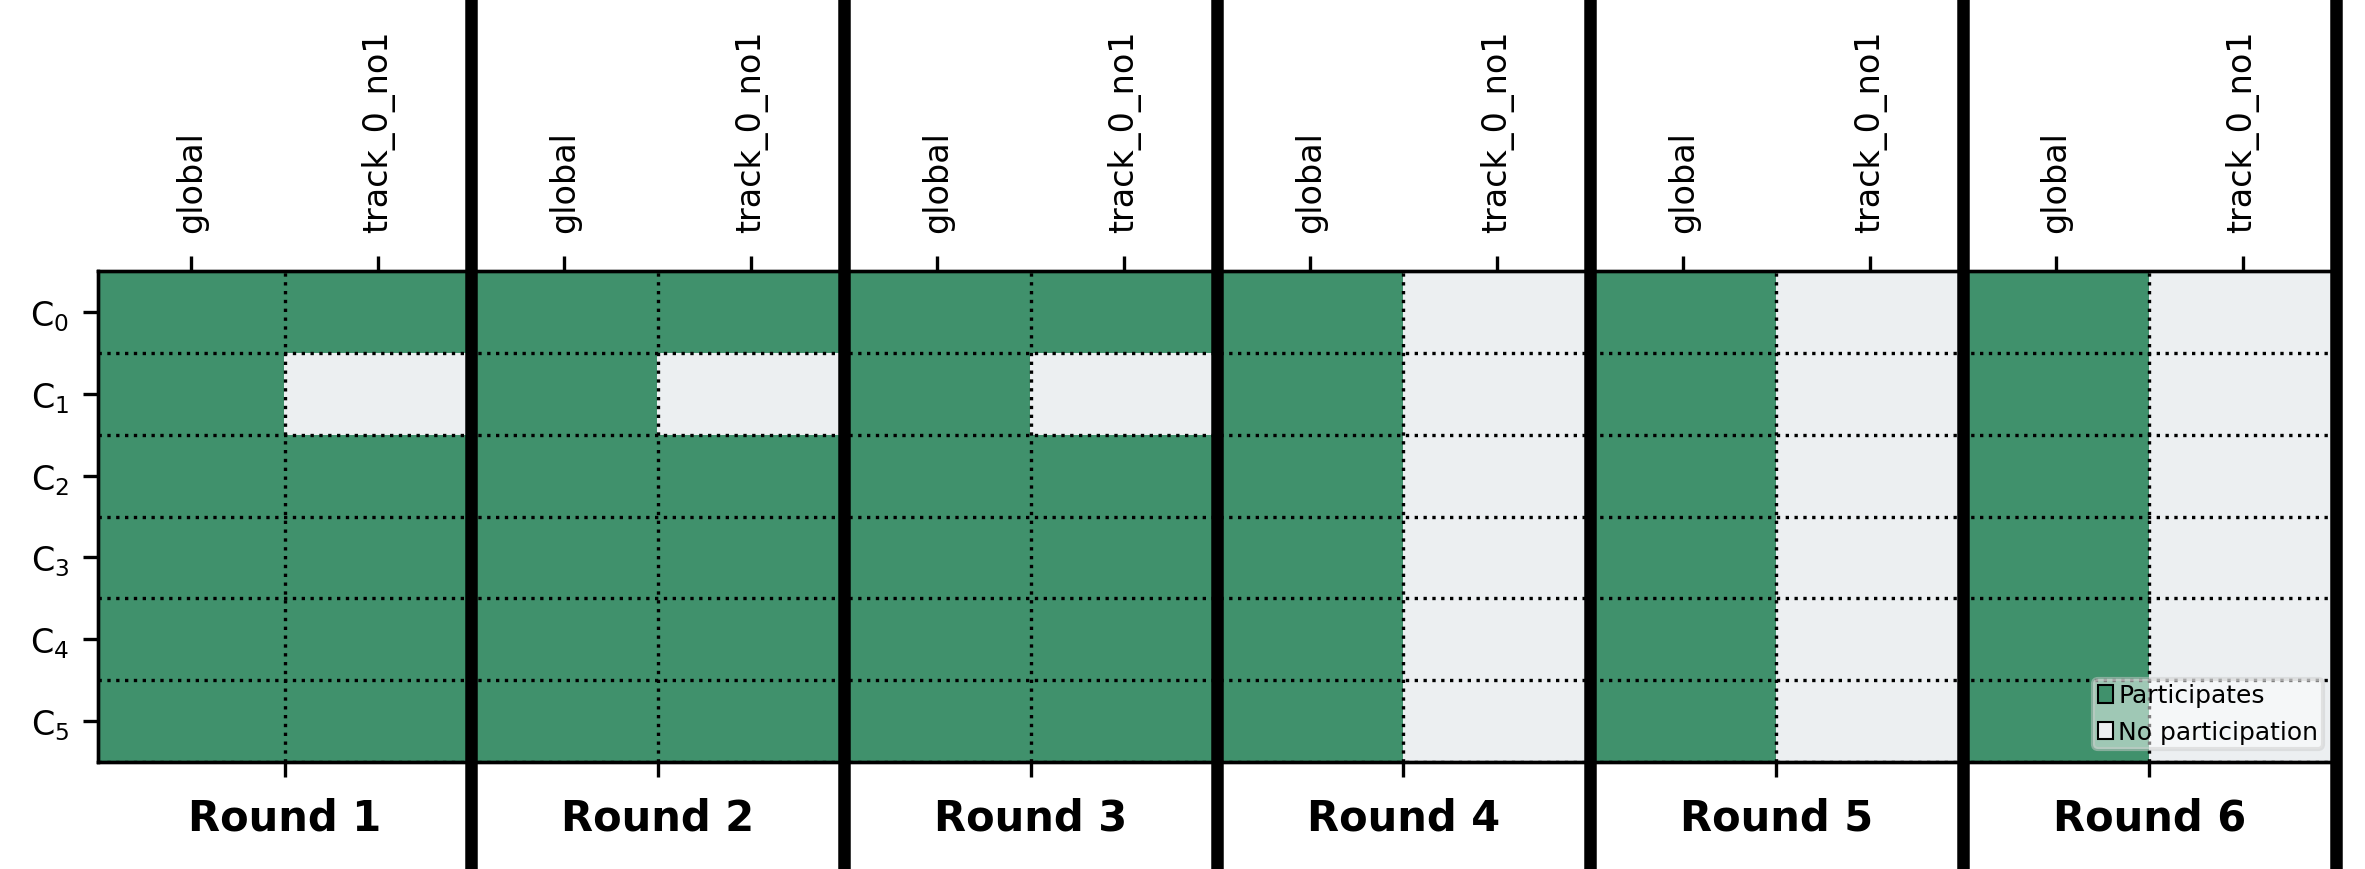
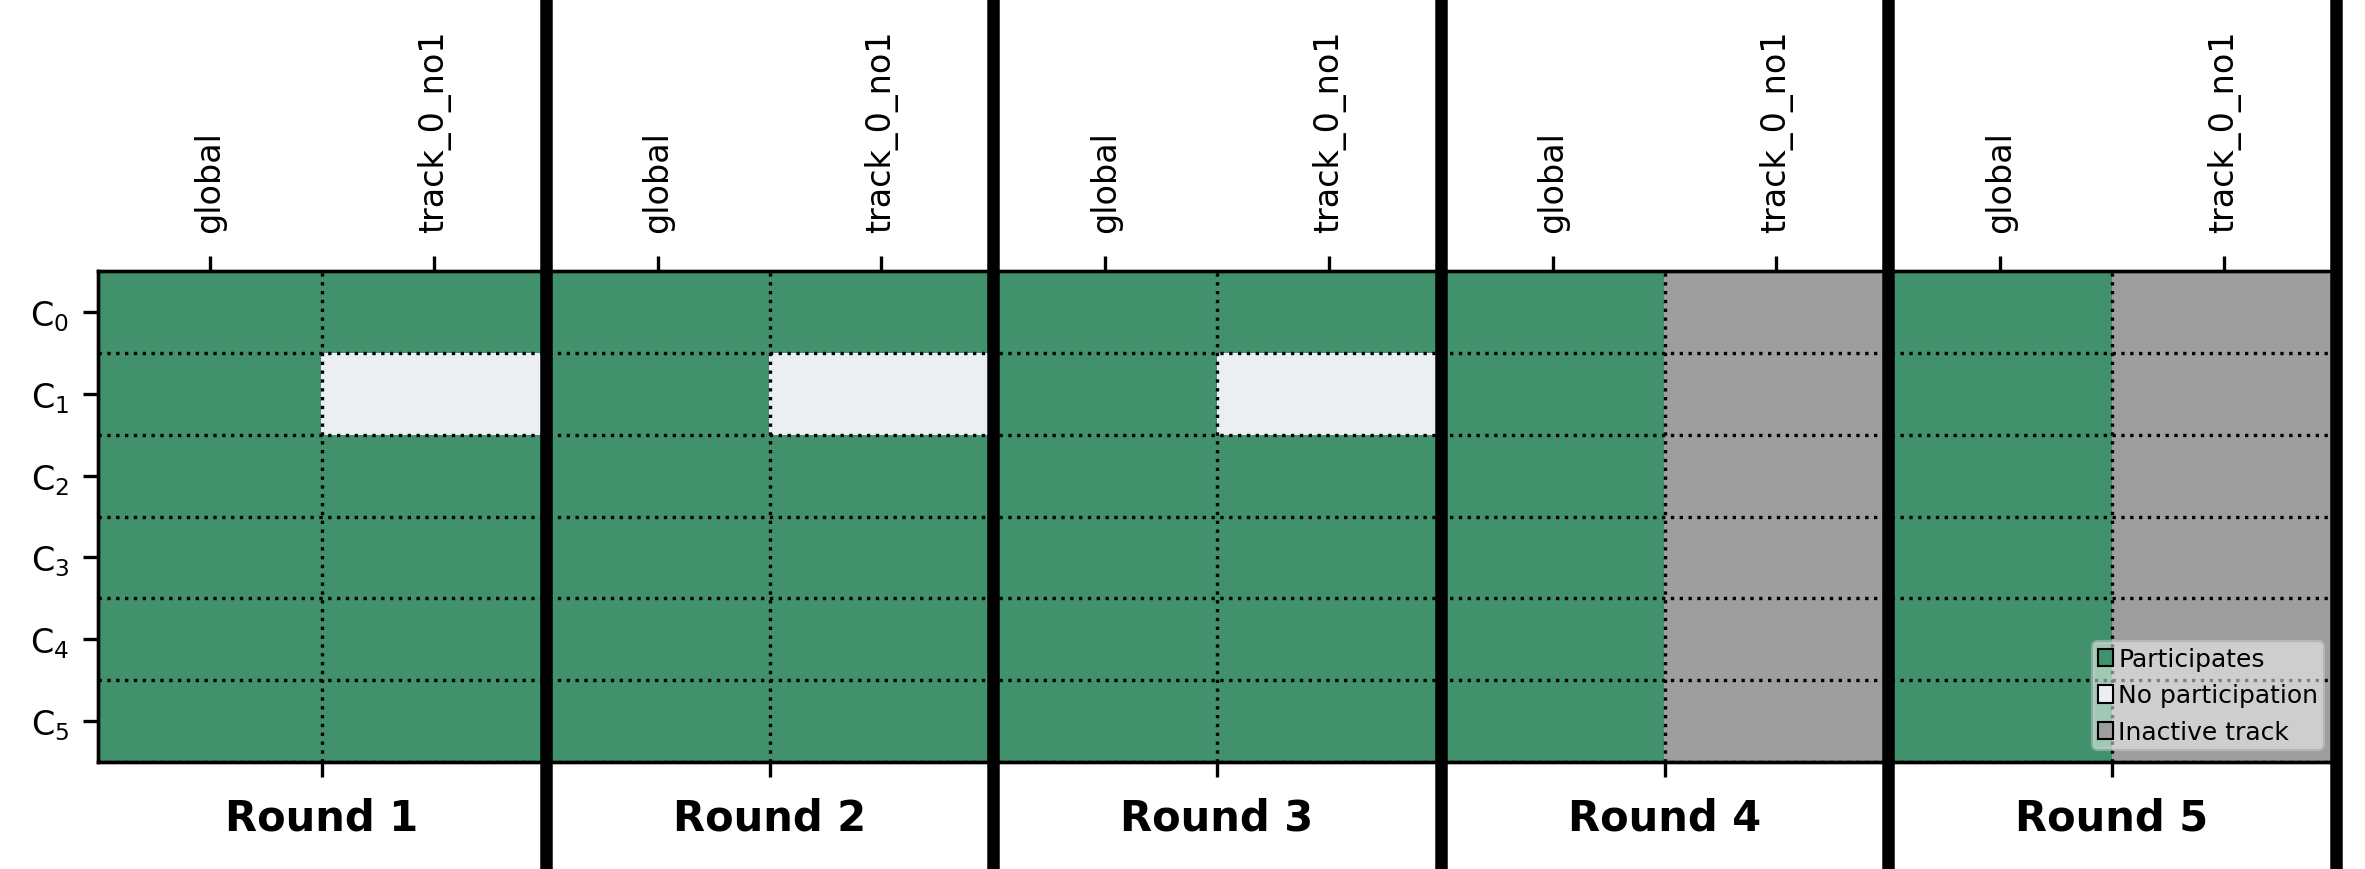
update temporal track contribution plots

diff --git a/scripts/visualize_track_contributions.py b/scripts/visualize_track_contributions.py
@@ -124,7 +124,7 @@ def extract_clients_and_tracks(round_data: Dict[int, Dict]) -> Tuple[List[str], 
 
 def build_contribution_matrix(round_data: Dict[int, Dict], clients: List[str], tracks: List[str]) -> Tuple[np.ndarray, List[Tuple[int, str]]]:
     """
-    Build a binary matrix showing client contributions to tracks across rounds.
+    Build a matrix showing client contributions to tracks across rounds.
 
     Args:
         round_data: Dictionary mapping round numbers to track metadata
@@ -133,6 +133,7 @@ def build_contribution_matrix(round_data: Dict[int, Dict], clients: List[str], t
 
     Returns:
         Tuple of (contribution matrix, column info list)
+        Matrix values: 0=no participation, 1=participation, 2=inactive track
     """
     rounds = sorted(round_data.keys())
     matrix = np.zeros((len(clients), len(rounds) * len(tracks)), dtype=int)
@@ -143,14 +144,22 @@ def build_contribution_matrix(round_data: Dict[int, Dict], clients: List[str], t
             col_info.append((round_num, track))
             col_idx = ri * len(tracks) + ti
 
-            # Get clients that contributed to this track in this round
+            # Get tracks that are active in this round
             round_tracks = round_data[round_num].get('tracks', {})
-            contributing_clients = set(str(c) for c in round_tracks.get(track, []))
 
-            # Set matrix values
-            for ci, client in enumerate(clients):
-                if client in contributing_clients:
-                    matrix[ci, col_idx] = 1
+            # Check if this track is active in this round
+            if track not in round_tracks:
+                # Track is inactive - set all clients for this track to 2 (inactive)
+                for ci, client in enumerate(clients):
+                    matrix[ci, col_idx] = 2
+            else:
+                # Track is active - set participation based on contributing clients
+                contributing_clients = set(str(c) for c in round_tracks.get(track, []))
+                for ci, client in enumerate(clients):
+                    if client in contributing_clients:
+                        matrix[ci, col_idx] = 1
+                    else:
+                        matrix[ci, col_idx] = 0
 
     return matrix, col_info
 
@@ -162,7 +171,7 @@ def create_visualization(matrix: np.ndarray, col_info: List[Tuple[int, str]],
     Create and display the track contribution visualization.
 
     Args:
-        matrix: Binary contribution matrix
+        matrix: Contribution matrix (0=no participation, 1=participation, 2=inactive track)
         col_info: List of (round, track) tuples for each column
         clients: List of client IDs
         tracks: List of track names
@@ -174,8 +183,8 @@ def create_visualization(matrix: np.ndarray, col_info: List[Tuple[int, str]],
     n_rounds = len(rounds)
     total_cols = len(col_info)
 
-    # Define Slate-Mint discrete colormap
-    cmap = ListedColormap(['#ECEFF1', '#40916C'])  # 0: light slate, 1: muted mint
+    # Define 3-color discrete colormap: no participation, participation, inactive track
+    cmap = ListedColormap(['#ECEFF1', '#40916C', '#9E9E9E'])  # 0: light slate, 1: muted mint, 2: grey
 
     # Calculate figure size based on data dimensions
     fig_width = max(8, min(20, total_cols * 0.4))
@@ -183,7 +192,7 @@ def create_visualization(matrix: np.ndarray, col_info: List[Tuple[int, str]],
 
     # Plot heatmap with rectangular cells (not square)
     fig, ax = plt.subplots(figsize=(fig_width, fig_height))
-    ax.imshow(matrix, aspect='auto', cmap=cmap, vmin=0, vmax=1)  # Changed to 'auto' aspect
+    ax.imshow(matrix, aspect='auto', cmap=cmap, vmin=0, vmax=2)  # Updated to handle 3 states
 
     # Setup ticks: major for rounds, minor for tracks
     # Major ticks (center of each round group) and labels
@@ -239,6 +248,13 @@ def create_visualization(matrix: np.ndarray, col_info: List[Tuple[int, str]],
         Patch(facecolor='#40916C', edgecolor='black', linewidth=0.5, label='Participates'),
         Patch(facecolor='#ECEFF1', edgecolor='black', linewidth=0.5, label='No participation')
     ]
+
+    # Only add "Inactive track" to legend if there are actually inactive tracks in the matrix
+    if np.any(matrix == 2):
+        legend_elements.append(
+            Patch(facecolor='#9E9E9E', edgecolor='black', linewidth=0.5, label='Inactive track')
+        )
+
     legend = ax.legend(handles=legend_elements, loc='lower right',
                        frameon=True, fontsize=6, handlelength=0.6, handletextpad=0.2,
                        columnspacing=0.3, borderpad=0.2)

diff --git a/fl_client/client.py b/fl_client/client.py
@@ -401,7 +401,6 @@ class FederatedClient:
                 # This model will be saved when save_trained_track_models is called
                 bg_track['trained'] = True
 
-                # Fix the formatting error by checking if accuracy is a number before formatting
                 bg_accuracy = bg_results.get('accuracy', 'N/A')
                 bg_accuracy_str = f"{bg_accuracy:.4f}" if isinstance(bg_accuracy, (float, int)) else bg_accuracy
                 print(f"Background model '{bg_track['name']}' training complete. Accuracy: {bg_accuracy_str}")
